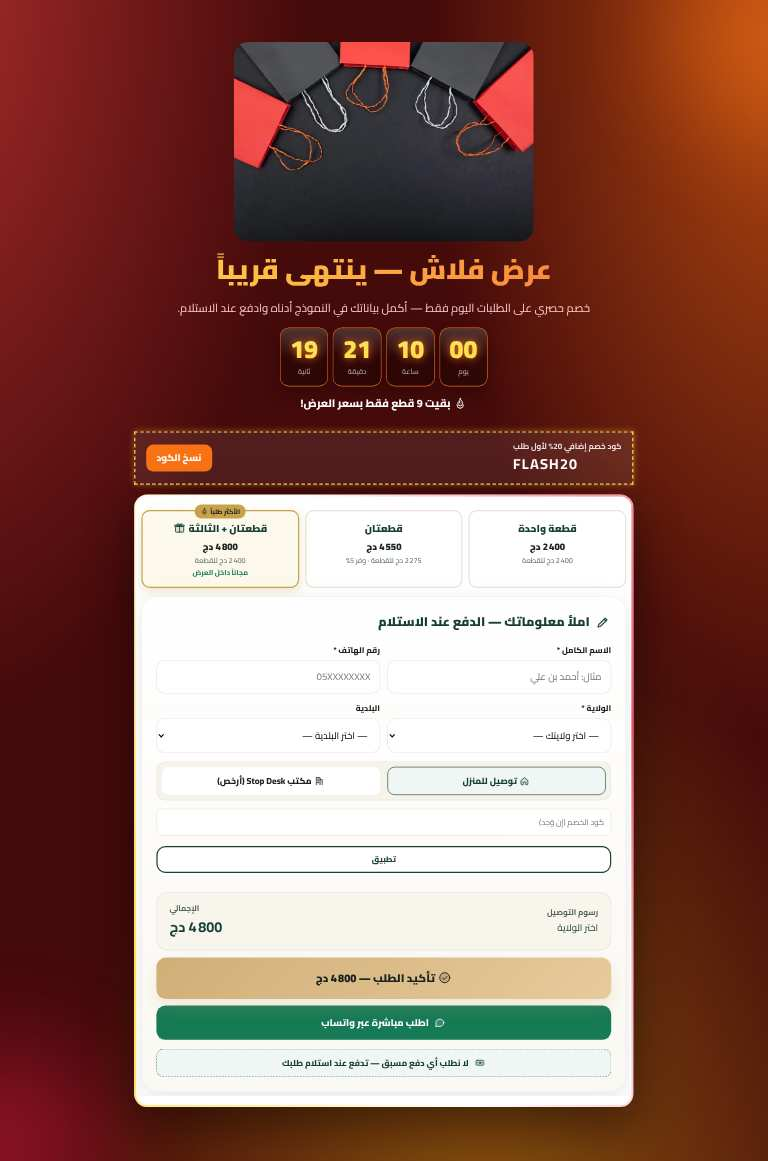
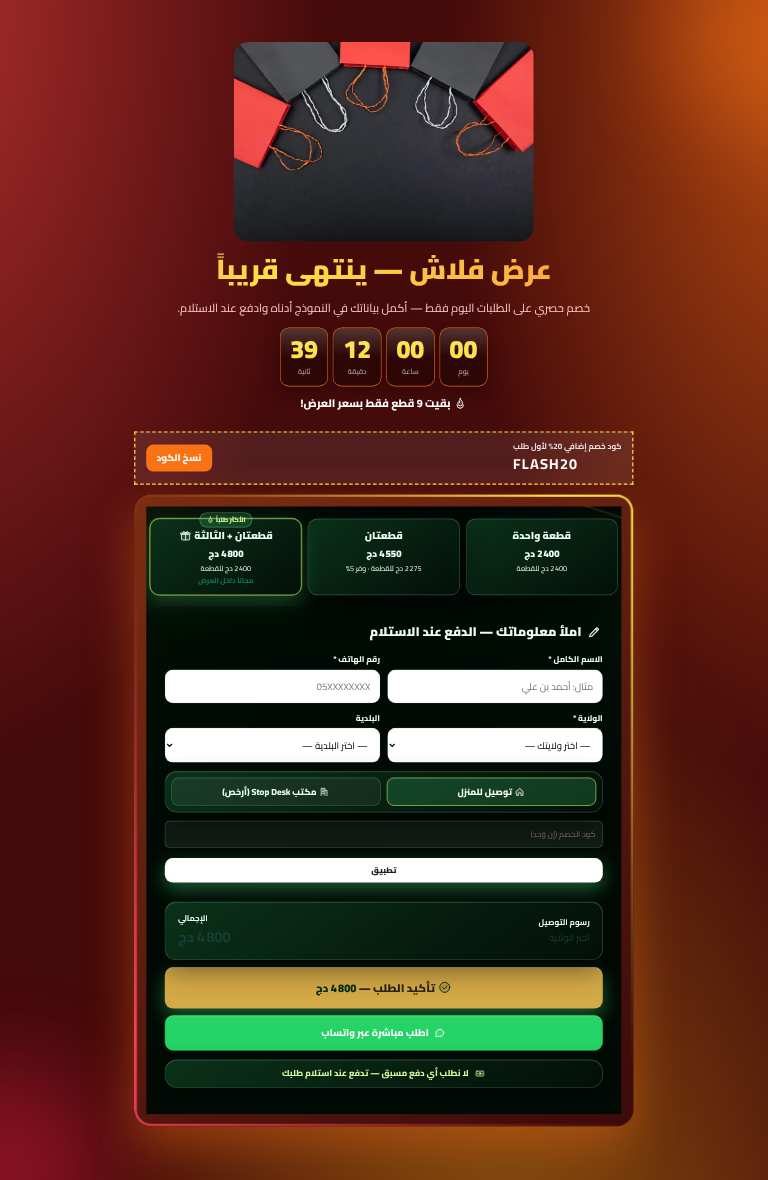
v1.89.32: مكتبة القوالب (الميدان ثم القالب)، نموذج طلب أليسوم الحقيقي، تنويع نماذج الطلب، إصلاح تضمين نموذج الطلب
Claude-Session: https://claude.ai/code/session_01WgFFLPSZZczRDL35BCrRc8

diff --git a/assets/js/admin-nav.js b/assets/js/admin-nav.js
@@ -60,7 +60,8 @@ const AdminNav = (() => {
   /* ══ مكتبة القوالب (نافذة): نماذج اتصال / نماذج الطلبات / صفحات كاملة، مع تصفية حسب الميدان ══ */
   const LCATS = [["all", "الكل"], ["store", "قوالب كاملة (متجر)"], ["page", "صفحات كاملة"], ["contact", "نماذج اتصال"], ["order", "نماذج الطلبات"]];
   /* نوع القالب: كامل = هوية متجر كاملة (رئيسية + فئات + منتج + هيدر/فوتر) كقوالب OceanWP؛ صفحات = قالب لصفحة أو نموذج فقط */
-  const LTYPES = [["all", "كل الأنواع"], ["full", "قوالب كاملة (رئيسية + فئات + منتجات)"], ["pages", "قوالب صفحات فقط"]];
+  const LTYPES = [["all", "الكل"], ["full", "موقع كامل"], ["pages", "صفحات"], ["order", "نموذج طلب"], ["contact", "نموذج إرسال"]];
+  const TYPE_CAT = { full: "store", pages: "page", order: "order", contact: "contact" };
   const isFull = x => x.cat === "store";
   const cf = (set, title, desc) => () => { const m = PB.mkW; return PB.mkS([PB.mkC([m("contact", Object.assign({ title, desc }, set))])], { pad: { d: [40, 20, 40, 20], m: [28, 16, 28, 16] } }); };
   const dflt = ks => () => { const L = ks.map(k => PB.DFLT.find(x => x.k === k).f()); return L; };
@@ -69,9 +70,7 @@ const AdminNav = (() => {
     { id: "c-dark", cat: "contact", fld: "عام", n: "نموذج اتصال داكن أنيق", d: "خلفية خضراء داكنة وحقول زجاجية وزر ذهبي.", b: cf({ fbg: "#173f35", fbc: "#2b5b4e", tcol: "#ffffff", lcol: "#e6dfcf", ibg: "#ffffff1a", ibc: "#ffffff40", bbg: "#c8a24b", bcol: "#173f35" }, "راسلنا الآن", "فريقنا جاهز للرد على استفساراتك.") },
     { id: "c-quote", cat: "contact", fld: "خدمات", n: "طلب عرض سعر", d: "الاسم والهاتف والولاية ونوع الخدمة وتفاصيل الطلب.", b: cf({ fields: [{ label: "الاسم الكامل", type: "text", ph: "اكتب اسمك", req: true, w: "half" }, { label: "رقم الهاتف", type: "tel", ph: "05XXXXXXXX", req: true, w: "half" }, { label: "الولاية", type: "text", ph: "مثال: الجزائر", req: false, w: "half" }, { label: "نوع الخدمة", type: "select", ph: "اختر الخدمة", opts: "خدمة أولى، خدمة ثانية، أخرى", req: true, w: "half" }, { label: "تفاصيل الطلب", type: "textarea", ph: "صف طلبك بإيجاز", req: true, w: "full" }], btn: "اطلب عرض السعر", subject: "طلب عرض سعر" }, "اطلب عرض سعر", "أخبرنا بما تحتاجه ونعود إليك بعرض مناسب.") },
     { id: "c-health", cat: "contact", fld: "صحة وعسل", n: "استشارة صحية / تغذية", d: "نموذج مخصص للاستشارة حول المنتج المناسب للحالة.", b: cf({ fields: [{ label: "الاسم", type: "text", ph: "اسمك", req: true, w: "half" }, { label: "رقم الهاتف", type: "tel", ph: "05XXXXXXXX", req: true, w: "half" }, { label: "العمر", type: "number", ph: "العمر", req: false, w: "half" }, { label: "الحاجة", type: "select", ph: "اختر", opts: "تقوية الذاكرة، المناعة، الطاقة، أخرى", req: true, w: "half" }, { label: "ملاحظات", type: "textarea", ph: "أي تفاصيل تفيدنا", req: false, w: "full" }], btn: "أرسل استشارتي", subject: "طلب استشارة" }, "استشارة مجانية", "اكتب حالتك وسنقترح عليك المنتج الأنسب.") },
-    { id: "o-orig", cat: "order", fld: "متجر", n: "نموذج الطلب الكامل", d: "نموذج الطلب الأصلي بكل عروضه ورسوم التوصيل.", b: dflt(["order"]) },
-    { id: "o-deal", cat: "order", fld: "متجر", n: "عرض محدود + نموذج الطلب", d: "شريط عرض بعدّاد تنازلي ثم نموذج الطلب وزر ذهبي.", b: dflt(["deal", "order", "cta"]) },
-    { id: "o-trust", cat: "order", fld: "صحة وعسل", n: "ضمانات + شارات ثقة + نموذج الطلب", d: "بطاقات الدفع عند الاستلام والتوصيل ثم شارات الثقة ونموذج الطلب.", b: dflt(["assure", "trust", "order"]) },
+    { id: "o-orig", cat: "order", fld: "متجر", n: "نموذج طلب أليسوم", d: "نموذج الطلب الحقيقي كاملاً بكل عروضه وكميّاته ورسوم التوصيل وزر واتساب.", b: dflt(["order"]) },
     { id: "p-focus-honey", cat: "page", fld: "صحة وعسل", n: "هبوط: عسل التركيز", d: "صفحة هبوط كاملة مبنية بعناصر المطوّر على نمط التصميم المرجعي.", file: "focus-honey" }
   ];
   /* ══ قوالبي: القوالب المحمَّلة (استيراد JSON) أو المنشأة (صفحة محفوظة كقالب) — assets/data/mytpl.json (GitHub/PHP) أو localStorage ══ */
@@ -95,7 +94,7 @@ const AdminNav = (() => {
   }
   const myAsLib = it => ({ id: "my:" + it.id, my: true, cat: "page", fld: "قوالبي", n: it.n, d: (it.src === "import" ? "محمَّل من ملف" : "منشأ من صفحة") + " · " + (it.date || "") + " · " + (((it.page && it.page.sections) || []).length) + " قسم", file: null, page: it.page });
   function tplFind(id) { if (String(id).startsWith("my:")) { const it = (MY.items || []).find(q => "my:" + q.id === id); return it ? myAsLib(it) : null; } return libAll().find(q => q.id === id); }
-  const LS = { type: "all", cat: "all", fld: "all", q: "", v: "lib" }; let LIBX = null; const V = "1.89.31";
+  const LS = { type: "all", cat: "all", fld: "all", q: "", v: "lib" }; let LIBX = null; const V = "1.89.32";
   async function libLoad() { if (LIBX) return; LIBX = []; try { const r = await fetch("assets/pages/templates/index.json?v=" + Date.now(), { cache: "no-store" }); if (r.ok) LIBX = (await r.json()).map(x => Object.assign({ file: x.id, adv: true }, x)); } catch (e) { } }
   function libAll() { return LIB.concat(LIBX || []); }
   async function libOpen(view) { await libLoad(); await myLoad(); LS.type = "all"; LS.cat = "all"; LS.fld = "all"; LS.q = ""; LS.v = view === "mine" || view === "load" ? view : "lib"; let m = $("tl-lib"); if (!m) { m = document.createElement("div"); m.id = "tl-lib"; m.onclick = e => { if (e.target === m) libClose(); }; document.body.appendChild(m); } m.style.display = "flex"; libDraw(); }
@@ -111,9 +110,9 @@ const AdminNav = (() => {
     let body = "";
     if (v === "lib") {
       const ALL = libAll(), flds = [...new Set(ALL.map(x => x.fld))], q = LS.q.trim().toLowerCase();
-      const L = ALL.filter(x => (LS.type === "all" || (LS.type === "full") === isFull(x)) && (LS.cat === "all" || x.cat === LS.cat) && (LS.fld === "all" || x.fld === LS.fld) && (!q || (x.n + " " + x.d + " " + x.fld).toLowerCase().includes(q)));
+      const L = ALL.filter(x => (LS.type === "all" || x.cat === TYPE_CAT[LS.type]) && (LS.fld === "all" || x.fld === LS.fld) && (!q || (x.n + " " + x.d + " " + x.fld).toLowerCase().includes(q)));
       const sel = (k, opts) => `<select onchange="AdminNav.libSet('${k}',this.value)">${opts.map(o => `<option value="${esc(o[0])}"${LS[k] === o[0] ? " selected" : ""}>${esc(o[1])}</option>`).join("")}</select>`;
-      body = `<div class="tl-fb"><label>النوع ${sel("type", LTYPES)}</label><label>القسم ${sel("cat", LCATS)}</label><label>الميدان ${sel("fld", [["all", "عرض الكل"]].concat(flds.map(f => [f, f])))}</label><input id="tl-q" type="search" placeholder="🔍 بحث في القوالب" value="${esc(LS.q)}" oninput="AdminNav.libSet('q',this.value)"><span class="hint" style="margin:0">${L.length} قالب</span></div><div class="tl-body">${L.length ? libCards(L, false) : `<div class="hint">لا قوالب مطابقة.</div>`}</div>`;
+      body = `<div class="tl-fb"><label>الميدان ${sel("fld", [["all", "عرض الكل"]].concat(flds.map(f => [f, f])))}</label><label>القالب ${sel("type", LTYPES)}</label><input id="tl-q" type="search" placeholder="🔍 بحث في القوالب" value="${esc(LS.q)}" oninput="AdminNav.libSet('q',this.value)"><span class="hint" style="margin:0">${L.length} قالب</span></div><div class="tl-body">${L.length ? libCards(L, false) : `<div class="hint">لا قوالب مطابقة.</div>`}</div>`;
     } else if (v === "mine") {
       body = `<div class="tl-body">${MYL.length ? libCards(MYL, true) : `<div class="ap-sec"><b>لا قوالب بعد</b><div class="hint">قوالبك المحمَّلة من ملف أو المنشأة من صفحاتك تظهر هنا. ابدأ من «تحميل قالب».</div><button class="small gold" onclick="AdminNav.libSet('v','load')">+ تحميل قالب</button></div>`}</div>`;
     } else {
@@ -153,7 +152,7 @@ const AdminNav = (() => {
     let page;
     if (x.file) { const r = await fetch("assets/pages/templates/" + x.file + ".json?t=" + Date.now()); if (!r.ok) throw new Error("القالب غير موجود"); page = PBAdmin.fresh(await r.json()); }
     else { let secs = x.b(); if (!Array.isArray(secs)) secs = [secs]; page = PB.newPage(x.n, ""); page.sections = secs; }
-    const slug = (builderOpen() && PBApp.E.page.product) || ((typeof Admin !== "undefined" && Admin.products && Admin.products[0]) || {}).slug || "";
+    const slug = (builderOpen() && PBApp.E.page.product) || ((typeof Admin !== "undefined" && Admin.products && Admin.products[0]) || {}).slug || ((typeof PRODUCTS !== "undefined" && PRODUCTS[0]) || {}).slug || "";
     const fill = n => { (n.cols || []).forEach(fill); (n.widgets || []).forEach(w => { if (w.type === "orderorig" && w.set && !w.set.prod && slug) w.set.prod = slug; fill(w); }); (n.free || []).forEach(fill); };
     (page.sections || []).forEach(fill); return page;
   }
@@ -473,7 +472,7 @@ const AdminNav = (() => {
     let body = "";
     if (t === "load") {
       await myLoad();
-      body = `<div class="ap-sec"><b>مكتبة القوالب</b><div class="hint" style="margin:0 0 .5rem">كل شيء في نافذة واحدة: تصفّح القوالب بقوائم الفلترة، <b>قوالبي</b> (المحمَّلة والمنشأة)، و<b>تحميل قالب</b> (استيراد ملف أو حفظ صفحة كقالب). وفي معاينة كل قالب: معاينة حقيقية / تعديل القالب / تثبيت القالب.</div><div class="action-bar"><button class="small" onclick="AdminNav.libOpen()">فتح مكتبة القوالب</button><button class="small gold" onclick="AdminNav.libOpen('mine')">⭐ قوالبي (${(MY.items || []).length})</button><button class="small" onclick="AdminNav.libOpen('load')">⬆ تحميل قالب</button></div></div>`;
+      body = `<div class="ap-sec"><b>مكتبة القوالب</b><div class="hint" style="margin:0 0 .5rem">كل شيء في نافذة واحدة: تصفّح القوالب بقوائم الفلترة، <b>قوالبي</b> (المحمَّلة والمنشأة)، و<b>تحميل قالب</b> (استيراد ملف أو حفظ صفحة كقالب). وفي معاينة كل قالب: معاينة حقيقية / تعديل القالب / تثبيت القالب.</div><div class="action-bar"><button class="small" onclick="AdminNav.libOpen()">مكتبة القوالب</button><button class="small gold" onclick="AdminNav.libOpen('mine')">⭐ قوالبي (${(MY.items || []).length})</button><button class="small" onclick="AdminNav.libOpen('load')">⬆ تحميل قالب</button></div></div>`;
     } else if (t === "clone") {
       const o = off("cloner");
       body = `<div class="ap-sec"><b>ناسخ القوالب</b><div>${esc(APPS.cloner.d)}</div><ol>${APPS.cloner.how.map(x => "<li>" + esc(x) + "</li>").join("")}</ol><div class="action-bar" style="margin-top:.5rem"><button class="small" onclick="AdminNav.clone()" ${o ? "disabled" : ""}>فتح ناسخ القوالب</button><button class="small gray" onclick="AdminNav.group('apps');AdminNav.app('cloner',document.querySelector('.nav-btn[data-app=cloner]'))">إعدادات التطبيق</button></div>${o ? '<div class="hint">الناسخ معطّل من إعدادات التطبيقات.</div>' : ""}</div>`;

diff --git a/admin.html b/admin.html
@@ -3,7 +3,7 @@
 <head>
 <meta charset="UTF-8">
 <meta name="viewport" content="width=device-width, initial-scale=1.0">
-<meta name="admin-version" content="1.89.31">
+<meta name="admin-version" content="1.89.32">
 <title>لوحة التحكم — أليسوم</title>
 <link rel="preconnect" href="https://fonts.googleapis.com">
 <link href="https://fonts.googleapis.com/css2?family=Cairo:wght@400;700;800;900&display=swap" rel="stylesheet">
@@ -1601,18 +1601,18 @@ document.addEventListener("keydown", e=>{ if(e.key === "Escape") SitePreview.clo
 <script src="assets/js/chrome.js?v=11"></script>
 <script src="assets/js/modern-icons.js?v=1.28.3"></script>
 <script>document.addEventListener("DOMContentLoaded",function(){try{ModernIcons.style();ModernIcons.watch({skip:"#pbx-frame,.pbx-ip .g,[data-keep-emoji]"})}catch(e){}})</script>
-<script src="assets/js/ctl-help.js?v=1.89.31"></script>
-<script src="assets/js/chrome-admin.js?v=1.89.31"></script>
-<script src="assets/js/admin-assistant.js?v=1.89.31"></script>
+<script src="assets/js/ctl-help.js?v=1.89.32"></script>
+<script src="assets/js/chrome-admin.js?v=1.89.32"></script>
+<script src="assets/js/admin-assistant.js?v=1.89.32"></script>
 <script src="assets/js/img-gen.js?v=1.89.0"></script>
 <style id="as-css">#as-box{position:fixed;inset:0;z-index:100000;display:none;align-items:flex-start;justify-content:center;padding:10vh 12px 0;background:rgba(2,8,5,.76);backdrop-filter:blur(6px)}#as-box.on{display:flex}.as-win{width:min(680px,100%);max-height:72vh;display:flex;flex-direction:column;background:rgba(9,24,18,.985);border:1px solid rgba(255,255,255,.16);border-radius:18px;box-shadow:0 30px 80px rgba(0,0,0,.6);overflow:hidden;color:#fff}#as-in{width:100%;box-sizing:border-box;padding:16px 18px;font:inherit;font-size:16px;color:#fff;background:transparent;border:0;border-bottom:1px solid rgba(255,255,255,.14);outline:0}#as-in::placeholder{color:rgba(255,255,255,.55)}#as-list{overflow:auto;padding:6px}.as-it{display:grid;grid-template-columns:auto 1fr;gap:2px 10px;align-items:center;padding:9px 12px;border-radius:12px;cursor:pointer}.as-it.on{background:rgba(255,255,255,.1);box-shadow:inset 0 1px 0 rgba(255,255,255,.12)}.as-k{grid-row:1/3;font-size:11px;font-weight:800;padding:3px 9px;border-radius:999px;background:rgba(255,255,255,.1);border:1px solid rgba(255,255,255,.18);color:#d9f99d}.as-t{font-weight:800;color:#fff;white-space:nowrap;overflow:hidden;text-overflow:ellipsis}.as-s{font-size:12px;color:rgba(255,255,255,.7);white-space:nowrap;overflow:hidden;text-overflow:ellipsis}.as-no{padding:22px;text-align:center;color:rgba(255,255,255,.7)}.as-ft{display:flex;gap:16px;justify-content:center;padding:8px;font-size:12px;color:rgba(255,255,255,.6);border-top:1px solid rgba(255,255,255,.1)}@media(max-width:560px){.as-ft{display:none}}</style>
-<script src="assets/js/admin-nav.js?v=1.89.31"></script>
-<script src="assets/js/admin-tplsite.js?v=1.89.31"></script>
+<script src="assets/js/admin-nav.js?v=1.89.32"></script>
+<script src="assets/js/admin-tplsite.js?v=1.89.32"></script>
 <script src="assets/js/admin-theme.js?v=1.89.22"></script>
 <script src="assets/js/admin-stores.js?v=1.89.25"></script>
 <script src="assets/js/float-icons.js?v=1"></script>
 <script src="assets/js/admin-float.js?v=1.89.26"></script>
-<script src="assets/js/admin-update.js?v=1.89.31"></script>
+<script src="assets/js/admin-update.js?v=1.89.32"></script>
 <script src="assets/js/admin-search.js?v=1.56.0"></script>
 <script src="assets/js/admin-inventory.js?v=1.84.0"></script>
 <script src="assets/js/admin-social.js?v=1.89.0"></script>

diff --git a/assets/js/app.js b/assets/js/app.js
@@ -1895,7 +1895,7 @@ const PhoneDZ = {
   st.textContent = "html.pb-embed body>*:not(#pb-embed-wrap):not(script):not(style){display:none!important}html.pb-embed body{background:transparent!important;padding:0!important;margin:0!important}#pb-embed-wrap{padding:6px}#pb-embed-wrap .order-wide{margin-top:.6rem}#pb-embed-wrap #add-cart,#pb-embed-wrap .cart-btn{display:none!important}";
   document.head.appendChild(st);
   const go = ()=>{
-    const form = document.querySelector(".order-wide"); if(!form) return;
+    const form = document.querySelector(".order-wide") || document.querySelector(".pb-ofraw") || document.getElementById("order-form"); if(!form) return;
     const wrap = document.createElement("div"); wrap.id = "pb-embed-wrap";
     const off = document.getElementById("offers"); if(off) wrap.appendChild(off);
     wrap.appendChild(form); document.body.appendChild(wrap);

diff --git a/scripts/gen-template-thumbs.js b/scripts/gen-template-thumbs.js
@@ -18,6 +18,7 @@ const only = process.argv.slice(2);
       let pg;
       if (j.legacy) { const it = AdminNav.libItems().find(x => x.id === j.id); let s = it.b(); if (!Array.isArray(s)) s = [s]; pg = PB.newPage("t", ""); pg.sections = s; pg.header = false; pg.footer = false; }
       else return null;
+      const fillp = n => { (n.cols || []).forEach(fillp); (n.widgets || []).forEach(w => { if (w.type === "orderorig" && w.set && !w.set.prod && pr[0]) w.set.prod = pr[0].slug; fillp(w); }); (n.free || []).forEach(fillp); }; (pg.sections || []).forEach(fillp);
       pg = PB.migrate(pg); return PB.fullHtml(pg, { base: "", edit: false, path: "", demo: true, products: pr, pageProduct: pr[0] && pr[0].slug, site: { name: "متجرك", wa: "213555000000" } });
     }, [j, prods]);
     let H = html;

diff --git a/scripts/gen-templates-order.py b/scripts/gen-templates-order.py
@@ -12,7 +12,7 @@ head = C([
     W("stock", smode="manual", sn=9, smax=40, stx="🔥 بقيت {n} قطع فقط بسعر العرض!", color="#ffffff", sbgc="#ffffff22", fs=dm(18, 15), fxs=[stockbar(k)], **anim("fadeUp", .7, .3)),
 ], w=100)
 body = C([W("coupon", cpcode="FLASH20", cpt="كود خصم إضافي 20% لأول طلب", cpbtn="نسخ الكود", cpbg="#ffffff14", cpbc="#fde047", cpc="#ffffff", cpb="#f97316", fxs=[couponfx("#fde047")], **anim("fadeUp", .7)),
-          orderw(fxs=[rotborder(k, "#fde047", "#f43f5e", 3, 4, 22), FX("بطاقة بيضاء ناعمة", "selector{background:#fff;border-radius:22px;padding:6px;box-shadow:0 30px 80px rgba(0,0,0,.45)}")], **anim("fadeUp", .8, .1))], w=100)
+          orderw(fxs=[rotborder(k, "#fde047", "#f43f5e", 4, 3, 28), FX("بطاقة نارية داكنة", "selector{background:linear-gradient(145deg,#7c2d12,#3b0a0a);border-radius:28px;padding:20px;box-shadow:0 30px 80px rgba(249,115,22,.4)}")], **anim("fadeUp", .8, .1))], w=100)
 body["set"]["pad"] = dm([0, 0, 0, 0]); head["set"]["pad"] = dm([0, 0, 24, 0])
 reg("o-flash", "order", "عروض", "طلب بعرض فلاش", "خلفية نارية متحركة، عدّاد تنازلي متوهج، شريط مخزون يلمع، كوبون نابض، ونموذج الطلب بإطار متوهج دوّار.",
     [S([head, body], cw={"d": 860}, pad=dm([70, 20, 90, 20], [44, 16, 56, 16]), fxs=[aurora(k, "#450a0a", "#ef444499", "#f9731699", "#facc1566", 12), blobs(k, "#f97316", "#e11d48", 320, .45)])])
@@ -25,7 +25,7 @@ ben = C([
     W("bullets", items="جودة أصلية مضمونة 100%\nتوصيل سريع لجميع الولايات\nالدفع عند الاستلام بعد المعاينة\nإمكانية الاستبدال خلال 7 أيام\nدعم متواصل عبر واتساب", micon="ic:check-circle", mc="#f5d77a", ms=dm(24), gap=dm(14), fs=dm(19, 16), color="#f1ead2", manim="pop", **anim("fadeUp", .7, .1)),
     W("tbadges", items="ضمان الجودة\nتوصيل مؤمَّن", live=True, liveText="يشاهدون العرض الآن", lmin=9, lmax=26, cbg="#00000050", cc="#f5d77a", cbc="#c9992e", crad=dm(10), cfs=dm(14), gap=dm(10), jc="flex-start", **anim("fadeUp", .7, .2)),
 ], w=40, va="center")
-ordc = C([orderw(fxs=[goldborder("#c9992e"), FX("خلفية كريمية", "selector{background:#fffaf0;padding:8px;border-radius:8px}")], **anim("fadeUp", .8, .15))], w=60, va="center")
+ordc = C([orderw(fxs=[goldborder("#c9992e"), FX("بطاقة سوداء ذهبية", "selector{background:linear-gradient(160deg,#1f1708,#0c0a06);padding:12px;border-radius:4px;box-shadow:0 30px 70px rgba(0,0,0,.6)}")], **anim("fadeUp", .8, .15))], w=60, va="center")
 reg("o-lux", "order", "فخامة", "طلب فاخر داكن ذهبي", "قسم داكن بتوهّج دافئ ومزايا بلمعان ذهبي وشارات حيّة بجانب نموذج الطلب بحد ذهبي مزدوج.",
     [S([ben, ordc], pad=dm([90, 20, 90, 20], [56, 16, 56, 16]), gap={"d": 40}, fxs=[FX("خلفية سوداء بتدرّج دافئ", "selector{background:radial-gradient(80% 90% at 15% 10%,#2b2110,#0c0a06 60%),#0c0a06}"), spotlight(k, "rgba(201,153,46,.2)")])])
 
@@ -38,7 +38,7 @@ SOL = lambda: [FX("خلفية هادئة", "selector{background:#f4f7ff}")]
 reg("o-steps", "order", "عام", "طلب بثلاث خطوات", "خلفية هادئة، ثلاث بطاقات خطوات يربطها خط متقطع، ونموذج طلب بإطار دوّار وشارات ضمان.",
     [S([head], pad=dm([80, 20, 10, 20], [48, 16, 10, 16]), fxs=SOL()),
      S(steps, pad=dm([10, 20, 20, 20]), gap={"d": 20}, fxs=SOL() + [timeline("#2563eb")]),
-     S([C([orderw(fxs=[rotborder(k, "#2563eb", "#db2777", 2, 5, 22), FX("بطاقة ناصعة", "selector{background:#fff;border-radius:22px;padding:8px;box-shadow:0 30px 70px rgba(37,99,235,.18)}")], **anim("fadeUp", .8)),
+     S([C([orderw(fxs=[rotborder(k, "#38bdf8", "#2563eb", 2, 7, 12), FX("بطاقة زرقاء ليلية", "selector{background:linear-gradient(160deg,#0f2a5f,#0a1733);border:2px solid #38bdf8;border-radius:12px;padding:20px;box-shadow:0 24px 60px rgba(37,99,235,.3)}")], **anim("fadeUp", .8)),
          W("tbadges", items="دفع عند الاستلام\nتوصيل 58 ولاية\nاستبدال خلال 7 أيام", live=False, cbg="#ffffff", cc="#334155", cbc="#e0e7ff", crad=dm(999), cfs=dm(14), gap=dm(10), jc="center", **anim("fadeUp", .8, .2))], w=100)],
        cw={"d": 900}, pad=dm([20, 20, 90, 20], [16, 16, 56, 16]), fxs=SOL())])
 
@@ -48,7 +48,7 @@ head = C([H("اختر باقتك ووفّر أكثر", 44, 30, "#ffffff", fxs=[g
 prods = C([W("products", mode="all", limit=3, btn="اطلب الآن", showOld=True, cardw=dm(300, 220), gap=dm(22), rad=dm(22), cbg="#ffffffee", bbg="#16a34a",
              fxs=[lift(".pb-pc", "rgba(0,0,0,.35)", -10, 3), FX("سعر بارز", "selector .pb-pcp{font-weight:900}")], **anim("fadeUp", .8, .1))], w=100)
 body = C([W("coupon", cpcode="PACK15", cpt="وفّر 15% عند اختيار أي باقة", cpbtn="نسخ الكود", cpbg="#ffffff18", cpbc="#86efac", cpc="#ffffff", cpb="#16a34a", fxs=[couponfx("#86efac")], **anim("zoomIn", .7)),
-          orderw(fxs=[rotborder(k, "#86efac", "#67e8f9", 3, 5, 22), FX("بطاقة بيضاء", "selector{background:#fff;border-radius:22px;padding:6px;box-shadow:0 30px 80px rgba(0,0,0,.4)}")], **anim("fadeUp", .8, .1))], w=100)
+          orderw(fxs=[rotborder(k, "#16a34a", "#fde047", 3, 5, 18), FX("بطاقة خضراء عميقة", "selector{background:linear-gradient(160deg,#064e3b,#022c22);border-radius:18px;padding:22px;box-shadow:0 30px 80px rgba(0,0,0,.4)}")], **anim("fadeUp", .8, .1))], w=100)
 for c_ in (head, prods): c_["set"]["pad"] = dm([0, 0, 28, 0])
 reg("o-bundle", "order", "متجر", "طلب باقات وكوبون", "قسم أخضر بأورورا يعرض منتجات المتجر ببطاقات ترتفع بالمرور، كوبون متوهج ثم نموذج الطلب بإطار دوّار.",
     [S([head, prods, body], pad=dm([80, 20, 90, 20], [48, 16, 56, 16]), fxs=[aurora(k, "#052e16", "#22c55e88", "#06b6d466", "#a3e63555", 16), blobs(k, "#22c55e", "#06b6d4", 340, .35)])])
@@ -65,5 +65,5 @@ cta = W("addcart", t="اطلب الآن — الدفع عند الاستلام",
 head["set"]["pad"] = dm([0, 0, 24, 0])
 for c_ in cnt + tes: c_["set"]["pad"] = dm([0, 0, 26, 0])
 reg("o-proof", "order", "عام", "طلب بإثبات اجتماعي", "عدّادات بتدرّج، آراء زبائن زجاجية ترتفع بالمرور، شارة «يشترون الآن»، زر نابض ثم نموذج الطلب.",
-    [S([head] + cnt + tes + [COL([cta], 100, 24), COL([orderw(fxs=[rotborder(k, "#a78bfa", "#22d3ee", 2, 5, 22), FX("بطاقة بيضاء", "selector{background:#fff;border-radius:22px;padding:6px;box-shadow:0 30px 80px rgba(0,0,0,.5)}")], w=dm(72, 100), al={"d": "center"}, **anim("fadeUp", .8))], 100, 0)],
+    [S([head] + cnt + tes + [COL([cta], 100, 24), COL([orderw(fxs=[rotborder(k, "#a78bfa", "#f472b6", 3, 6, 34), FX("بطاقة بنفسجية داكنة", "selector{background:linear-gradient(145deg,#2e1065,#1e1b4b);border-radius:34px;padding:24px;box-shadow:0 30px 80px rgba(124,58,237,.45)}")], w=dm(72, 100), al={"d": "center"}, **anim("fadeUp", .8))], 100, 0)],
        pad=dm([80, 20, 90, 20], [48, 16, 56, 16]), fxs=[aurora(k, "#0b0620", "#7c3aed88", "#06b6d466", "#db277755", 20), blobs(k, "#7c3aed", "#db2777", 340, .3)])])

diff --git a/CLAUDE.md b/CLAUDE.md
@@ -96,6 +96,7 @@
 - **مكتبة صور الصفحة: تحديد متعدد + صور النسخ (v1.39.1):** في `drawPimg` شريط `.ptool` (`E.pSelOn`/`E.pSel`): «تحديد متعدد» (`selmode`) يُظهر علامات `.pck` على الصور، «تحديد الكل» (`selall`)، «حذف المحدد» (`delsel` ← `delPageImages(paths)`: تأكيد واحد، يزيل من `E.page.media` ويُفرغ المواضع المستعملة، Ctrl+Z يتراجع، والملفات تبقى في المستودع). الصور تُحفظ فور رفعها بـ`queueCommit` في `assets/img/pages/gen-*.webp` وتُسجَّل في `assets/pages/media.json`، وقائمة الصفحة `page.media` تُحفظ مع «حفظ ونشر». في نسخ القالب `S.upl` تجمع مسارات الصور المرفوعة (`saveImages`) و`openInEditor` يضعها في `page.media` للصفحة الجديدة ويُخرجها من قائمة الصفحة السابقة. اختُبر بـPlaywright (زر `[data-pimg]` لا يظهر إلا بعد تحديد عنصر).
 - **v1.89.16 — تعدد شركات التوصيل + أسعار تلقائية + مفتاح تفعيل:** (1) **أكثر من شركة مفعّلة**: `cfg.enabled` لكل شركة و`cfg.isDefault` لواحدة («⭐ افتراضية»)؛ `Admin.enabledCompanyKeys()` و`activeCompanyKey()` (= الافتراضية) و`setCompanyEnabled(key,on,{makeDefault})` (يطلب المفاتيح، ويجلب الأسعار تلقائياً إن دعمت `feesRequest`) و`setDefaultCompany` و`listCompanyKey()` (الشركة التي تدعم قراءة الطرود/ياليدين). مفتاح `.dlv-sw` بدل الراديو (admin-glass.css `?v=14`). (2) **نافذة الشركة بلا جدول أسعار يدوي**: `renderDeliveryPriceBox(key)`: معطّلة ← «تُجلب تلقائياً بعد التفعيل»؛ مفعّلة تدعم الجلب ← حالة + «⬇ جلب الأسعار الآن» (`cfg.pricesAt`)؛ الجدول اليدوي `#dlv-manual` فقط لمفعّلة لا تدعم الجلب (`_dlvManual`) و`saveDeliveryConfig` لا يمسح التعريفة المجلوبة. (3) **الطلب والشركة**: `orderCompanyKey(o)` = شركة الطرد المسجَّل ← وإلا شركة منتجاته إن اتفقت (`p.shipCo`) ← وإلا الافتراضية؛ `confirmOrder` يرسل بها؛ خلية الطلب فيها قائمة ▾ «إرسال عبر شركة أخرى» (`sendVia`)؛ `syncShipping` يتتبع كل طلب بشركته أصلاً (من وسم 🚚شركة:تتبع). (4) **تعريفة لكل منتج**: حقل `shipCo` في تعديل المنتج (`fillShipCo`)؛ `publishShipCo()` تكتب `assets/data/ship-co.json {companies:{key:{name,prices}}}` (عند جلب/حفظ الأسعار) ويقرؤه المتجر (`loadShipCo`/`__SHIPCO` في app.js)؛ `shipQuote(w,commune,type,sub,co)` يستعمل تعريفة `co` إن وُجدت؛ **سلة مختلطة** (`cartShipCo`) = الافتراضية وسعرها. (5) «الطلبات المسجلة»: تصفية `#ship-co` وإحصاءات لكل شركة (`#ship-co-stats`) تظهر عند وجود أكثر من شركة. **حدّ:** تقارير/مالية اللوحة لا تفصل حسب الشركة بعد (الأرقام الفعلية لياليدين فقط)؛ لم يُجرَّب على حسابات شركات حقيقية.
 - **v1.89.23 — مظهرا لوحة التحكم: داكن + فاتح:** `AdminTheme` (سكربت مبكر في admin.html: `mode/cfg/apply/set/toggle/setCfg/resetCfg`، المفاتيح `admin_theme` = glass|white — القديم `classic` يُقرأ فاتحاً — و`admin_theme_cfg` = `{dark:{accent,fs},white:{accent,fs}}`) يضبط الصنف `html.glass` (داكن، يضع `--g-mint`) أو `html.white` (فاتح، ملف `assets/css/admin-theme.css`) و`--ac` وحجم الخط. `assets/js/admin-theme.js` يستبدل `#theme-btn` بمفتاح `#theme-sw` (داكن|فاتح) في الشريط العلوي ويرسم بطاقة «مظهر لوحة التحكم» `#adm-theme` في صفحة مستقلة `tab-admtheme` «مظهر لوحة التحكم» (معاينة + ألوان + حجم خط لكل مظهر). **الفاتح** يعيد تعريف `--green/--gold/--bg/--line` من `--ac` ويضيف قواعد للوحدات التي صُمّمت بنص أبيض (`#ahome,#op-bar,#sm,#bulk-products-app,#rt,#pm,#seo-content,#customers-app`) — **أي وحدة جديدة بألوان داكنة ثابتة أضف معرّفها إلى تلك القائمة**؛ وفحص التباين الآلي (Playwright يمرّ على كل التبويبات في المظهر الفاتح) كشفها. أزرار الفاتح زجاج ملوّن منتفخ بنص أبيض. لا يمسّ مظهر الموقع: **صفحتان منفصلتان في مجموعة «المظهر»: «مظهر لوحة التحكم» (`admtheme`) و«مظهر الموقع» (`theme` — خطوط/ألوان/شعار الزبائن)**.
+- **v1.89.32 — مكتبة القوالب:** الزر «مكتبة القوالب» (بلا «فتح»)؛ التصفية: **الميدان** ثم **القالب** (`LTYPES`: الكل/موقع كامل `store`/صفحات `page`/نموذج طلب `order`/نموذج إرسال `contact` عبر `TYPE_CAT`) وحُذفت قائمة «القسم». حُذف قالبا «عرض محدود + نموذج الطلب» و«ضمانات + شارات ثقة + نموذج الطلب»؛ و`o-orig` صار «نموذج طلب أليسوم» (النموذج الحقيقي). **إصلاح مهم في app.js (وضع `?embed=1`):** كان يبحث عن `.order-wide` فقط فلا يجد شيئاً في صفحات المنتجات المحوّلة (v1.52+) فيظهر عنصر «نموذج الطلب الأصلي» فارغاً/داكناً في المعاينات والصفحات؛ صار يقبل `.order-wide` أو `.pb-ofraw` أو `#order-form`. نماذج الطلب الخمسة (`o-flash/lux/steps/bundle/proof`) صارت تختلف في لون خلفية الإطار وسماكته وزواياه وإطاره الدوّار (النموذج نفسه داكن زجاجي فبطاقاتها داكنة)؛ `tplPageOf` وصانع المعاينات يملآن `prod` للنموذج الأصلي من أول منتج (`PRODUCTS`) عند غيابه.
 - **v1.89.31 — معاينة القالب الكاملة بتنقّل داخلي + تنويع الهيدر/الفوتر:** `assets/js/admin-tplsite.js` (`TplSite`، في shared-files): «معاينة حقيقية» لقوالب المتجر (`s-*` ذات `prod-<id>.json`) تبني **الرئيسية + المتجر/الفئة (`shop.html?cat=|?c=`) + المنتج (`p/demo-N/`) + حسابي** من هيدر/فوتر/CSS القالب ومنتجاته التجريبية، والنقر على أي رابط في الإطار يُلتقط بسكربت محقون (`guard`) ويُرسَل `postMessage({tplNav})` للنافذة الأم فتُعيد بناء الصفحة (أزرار `#spv-nav`: رجوع/الرئيسية/المتجر/المنتج/حسابي)؛ الروابط الخارجية والنماذج تُمنع برسالة، والقوائم المنسدلة (`CATEGORIES/PRODUCTS`) تُستبدل ببيانات القالب فلا تظهر فئات أو منتجات موقعك. المعاينات الأخرى (أقسام/أليسوم/فئة) تمر بـ`TplSite.plain` فلا يفتح أي رابط موقعك. **تنويع القوالب:** `_HID/_FID` في gen-templates-copy.py (هيدر: ارتفاع/ترتيب العناصر/عرض/إظهار التواصل والنشر؛ فوتر: 4 أعمدة أو عمودان أو بلا حدّ) ثم أُعيد توليد القوالب والمعاينات؛ **قالب جديد = أضفه لـ`_HID/_FID`**. حدّ: أليسوم نفسه (متجرك) بلا تنقّل داخلي (تُمنع روابطه فقط)؛ صفحة المنتج التجريبية نموذج عام لا نسخة طبق الأصل من صفحة المنتج الحقيقية.
 - **v1.89.30 — «مظهر الموقع» بسهم يفتح الأقسام الفرعية:** الأزرار «الهيدر» و«الفوتر» و«قوالب» صارت `.nav-btn.nav-sub` مخفية افتراضياً وتظهر تحت «مظهر الموقع» عند فتح السهم `.nav-car` (`AdminNav.subs()`، الصنف `subs-look` على `.side-nav`، الحالة في `localStorage admin_nav_subs`، ويُفتح تلقائياً عند الانتقال لأحدها). قسم فرعي جديد = أضف `nav-sub` لزره.
 - **v1.89.29 — فصل إعدادات الهيدر والفوتر:** `socialCard(kind)` في chrome-admin.js يعرض حالة وتسمية التبويب الحالي فقط (لا يُذكر الفوتر في الهيدر ولا العكس)، وتلميح «عناوين الموقع» محايد. أي نص جديد في تبويب لا يشير إلى التبويب الآخر.
